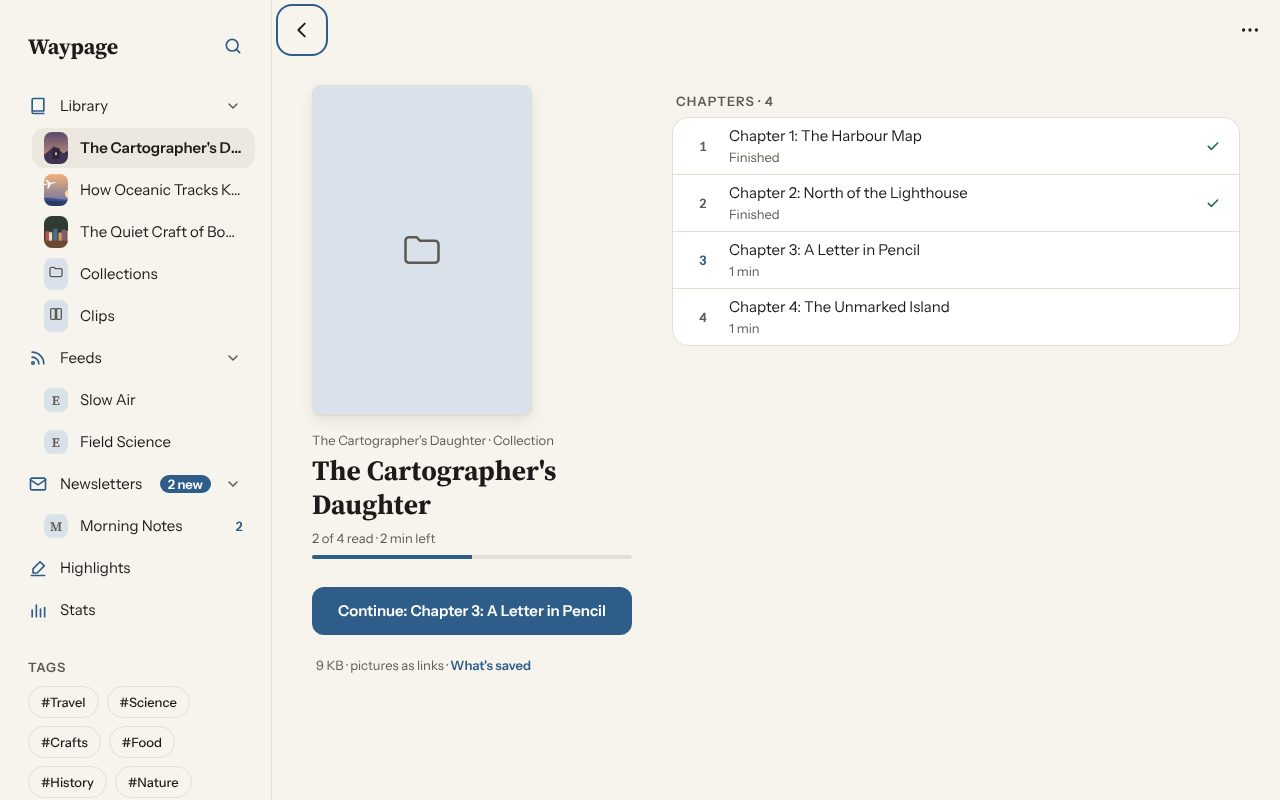
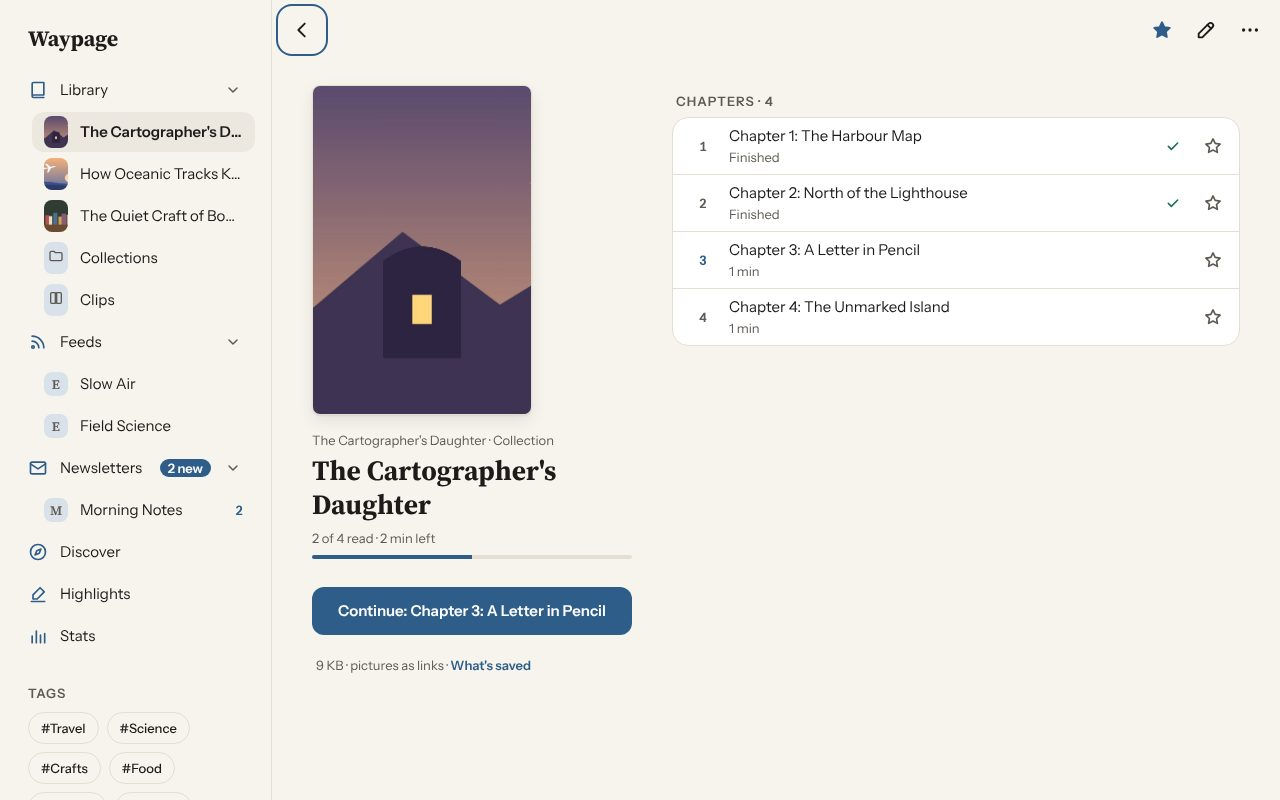
A star on each clip inside a collection
Daniel wanted to favourite an item from the collection itself, not only
from its sheet. Each row ends in a star, and each cover has one on its
corner; both hidden while editing or selecting. A star or drag handle
with focus keeps it when the list is drawn again.

Claude-Session: https://claude.ai/code/session_01CFeKriVgcuaR3TPbFddZwq

diff --git a/src/app-library.js b/src/app-library.js
@@ -406,10 +406,11 @@ function saveNewButton(list) {
 }
 
 function renderFolder() {
-  // A handle with focus keeps it through a draw again (a cover drawn
-  // late redraws the list after a move by keys).
-  const had = document.activeElement && document.activeElement.matches && document.activeElement.matches("#folderBody .drag-handle")
-    ? document.activeElement.closest("li").dataset.id : null;
+  // A handle or star with focus keeps it through a draw again (a cover
+  // drawn late redraws the list after a move by keys).
+  const a = document.activeElement;
+  const had = a && a.matches && a.matches("#folderBody .drag-handle, #folderBody .item-fav")
+    ? '[data-id="' + a.closest("li").dataset.id + '"] .' + a.classList[a.classList.length - 1] : null;
   const list = folderPages(state.folder);
   if (!list.length) {
     folderMode = "";
@@ -458,11 +459,21 @@ function renderFolder() {
             editing ? el("span", { class: "choice-note" }, formatSize(p.bytes || 0))
               : el("span", { class: "choice-note" + (p.finished ? "" : p.at > 0.02 ? " accent" : "") }, readingLine(p))),
           ordering ? null : chapterMark(p)),
-        ordering ? dragHandle(p, i, list.length) : null))) : null);
+        ordering ? dragHandle(p, i, list.length) : editing ? null : itemFav(p)))) : null);
   paintFolderBar();
   paintPicks();
-  const again = had && $("folderBody").querySelector('li[data-id="' + had + '"] .drag-handle');
-  if (again) again.focus();
+  const again = had && $("folderBody").querySelector("li" + had);
+  if (again) again.focus({ preventScroll: true });
+}
+
+// A star on each clip in a collection (Daniel 2026-11-13), the same as
+// Favourite in its sheet.
+function itemFav(p) {
+  const b = el("button", { class: "icon-btn item-fav", type: "button", "aria-label": "Favourite " + p.title,
+    "aria-pressed": p.fav ? "true" : "false",
+    onclick: () => setFavourite([p], !p.fav) });
+  b.innerHTML = '<svg width="20" height="20" viewBox="0 0 24 24" fill="none" stroke="currentColor" stroke-width="2" stroke-linecap="round" stroke-linejoin="round" aria-hidden="true">' + ICONS.star + "</svg>";
+  return b;
 }
 
 // How a collection shows what's in it, kept on this device: a list of
@@ -492,7 +503,8 @@ function coverItem(p, now) {
       pickMark(),
       el("span", { class: "tile-thumb" + (src ? "" : " blank") }, src ? el("img", { src, alt: "", loading: "lazy" }) : siteMark(p)),
       el("span", { class: "tile-name", dir: "auto" }, p.title),
-      el("span", { class: "tile-meta" + (p.finished ? "" : p.at > 0.02 ? " accent" : "") }, readingLine(p))));
+      el("span", { class: "tile-meta" + (p.finished ? "" : p.at > 0.02 ? " accent" : "") }, readingLine(p))),
+    itemFav(p));
 }
 
 // A tick once read, a filling ring part way.
@@ -1652,7 +1664,7 @@ function longPress(root) {
     fired = false;
     mouse = e.pointerType === "mouse";
     const node = e.button === 0 && e.target.closest("[data-ids]");
-    if (!node || e.target.closest(".card-retry, .drag-handle")) return;
+    if (!node || e.target.closest(".card-retry, .drag-handle, .item-fav")) return;
     start = { x: e.clientX, y: e.clientY };
     cancel();
     timer = setTimeout(() => {

diff --git a/test/ui.test.js b/test/ui.test.js
@@ -1455,7 +1455,12 @@ function zipOf(files) {
       await q.keyboard.press("Escape");
       await q.click("#folderFav");
       await until(q, () => folderFav("Serial") && document.getElementById("folderFav").getAttribute("aria-pressed") === "true");
+      // Each clip has its own star, which keeps focus once drawn again.
+      await q.locator('#folderBody li[data-id="rr500"] .item-fav').click();
+      await until(q, () => state.pages.find((p) => p.id === "rr500").fav && document.activeElement.matches('li[data-id="rr500"] .item-fav[aria-pressed="true"]'));
+      assert.ok(!(await q.evaluate(() => state.pages.find((p) => p.id === "rr100").fav)));
       await q.click("#folderEdit");
+      assert.strictEqual(await q.locator("#folderBody .item-fav").count(), 0);
       // A name typed in Edit stays while the order changes under it.
       await q.fill("#folderBody .book-title-input", "Serial two");
       const order = () => q.evaluate(() => folderPages("Serial").map((p) => p.id).join());
@@ -1500,6 +1505,8 @@ function zipOf(files) {
       await q.evaluate(() => { setFolderMode(""); setFolderLook("Serial", "covers"); });
       assert.strictEqual(await q.locator("#folderBody .folder-covers .cover-item").count(), 3);
       assert.strictEqual(await q.locator("#folderBody .folder-list").count(), 0);
+      await q.locator('#folderBody .folder-covers li[data-id="rr500"] .item-fav').click();
+      await until(q, () => !state.pages.find((p) => p.id === "rr500").fav);
       // Opening a serial looks for its next chapter, which has nowhere to go here.
       const errors = q.errors.filter((e) => !/workers\.dev/.test(e));
       assert.deepStrictEqual(errors, [], errors.join(" | "));

diff --git a/src/styles.css b/src/styles.css
@@ -2113,6 +2113,23 @@ span.update-text { cursor: default; }
 }
 .chapter .choice-text .row-label { color: var(--ink); }
 .selecting .chapter .chapter-mark { display: none; }
+/* A star on each clip in a collection: at the row's end, or on a
+   cover's top corner. */
+.item-fav { flex-shrink: 0; color: var(--muted); border-radius: var(--r-full); margin-inline-end: var(--s-1); }
+.item-fav:hover { color: var(--ink); background: var(--press); }
+.item-fav[aria-pressed="true"] { color: var(--accent); }
+.item-fav[aria-pressed="true"] svg { fill: currentColor; }
+.item-fav:focus-visible { outline: 2px solid var(--accent); outline-offset: -2px; }
+.folder-list .chapter { padding-inline-end: var(--s-2); }
+.folder-covers li { position: relative; }
+.folder-covers .item-fav { position: absolute; top: 0; inset-inline-end: 0; margin: 0; background: none; }
+.folder-covers .item-fav::before {
+  content: ""; position: absolute; inset: 8px; border-radius: var(--r-full);
+  background: var(--surface); box-shadow: 0 1px 3px var(--shadow);
+}
+.folder-covers .item-fav svg { position: relative; }
+.folder-covers .item-fav:hover { background: none; }
+.selecting .item-fav { display: none; }
 
 .order-hint { display: flex; align-items: center; gap: var(--s-3); margin: 0 var(--s-1) var(--s-3); }
 .order-hint { flex-wrap: wrap; }

diff --git a/README.md b/README.md
@@ -58,7 +58,7 @@ Each section below shows the computer (left) and the phone (right).
 
 <p><img src="docs/shots/collections-desktop.jpg" width="74%" alt="A collection on a computer"> <img src="docs/shots/collections-phone.jpg" width="21%" alt="A collection on a phone"></p>
 
-- Collections are ordered folders: chapters in order, "2 of 4 read", Continue.
+- Collections are ordered folders: chapters in order, "2 of 4 read", Continue. Star a collection, or any clip in it, from its own screen.
 - Sort a collection by chapter, release date, date added or title, or show it as covers instead of a list. Its cover shows a mark for each kind it holds (clips, files, audiobooks, notes).
 - A collection linked to a story's page finds new chapters and shows a "+N" to save them.
 - Files: EPUB, PDF, MOBI, AZW3, FB2, CBZ, Markdown, text and HTML, copied in (a clip like any other) or read from where they are. Books keep their own contents.

diff --git a/changes/feature-favourite-collection-items.md b/changes/feature-favourite-collection-items.md
@@ -1,0 +1,2 @@
+### Added
+- Each clip, file, audiobook and note in a collection has its own star, at the end of its row or on its cover's corner, so it can be made a favourite without opening its menu.
